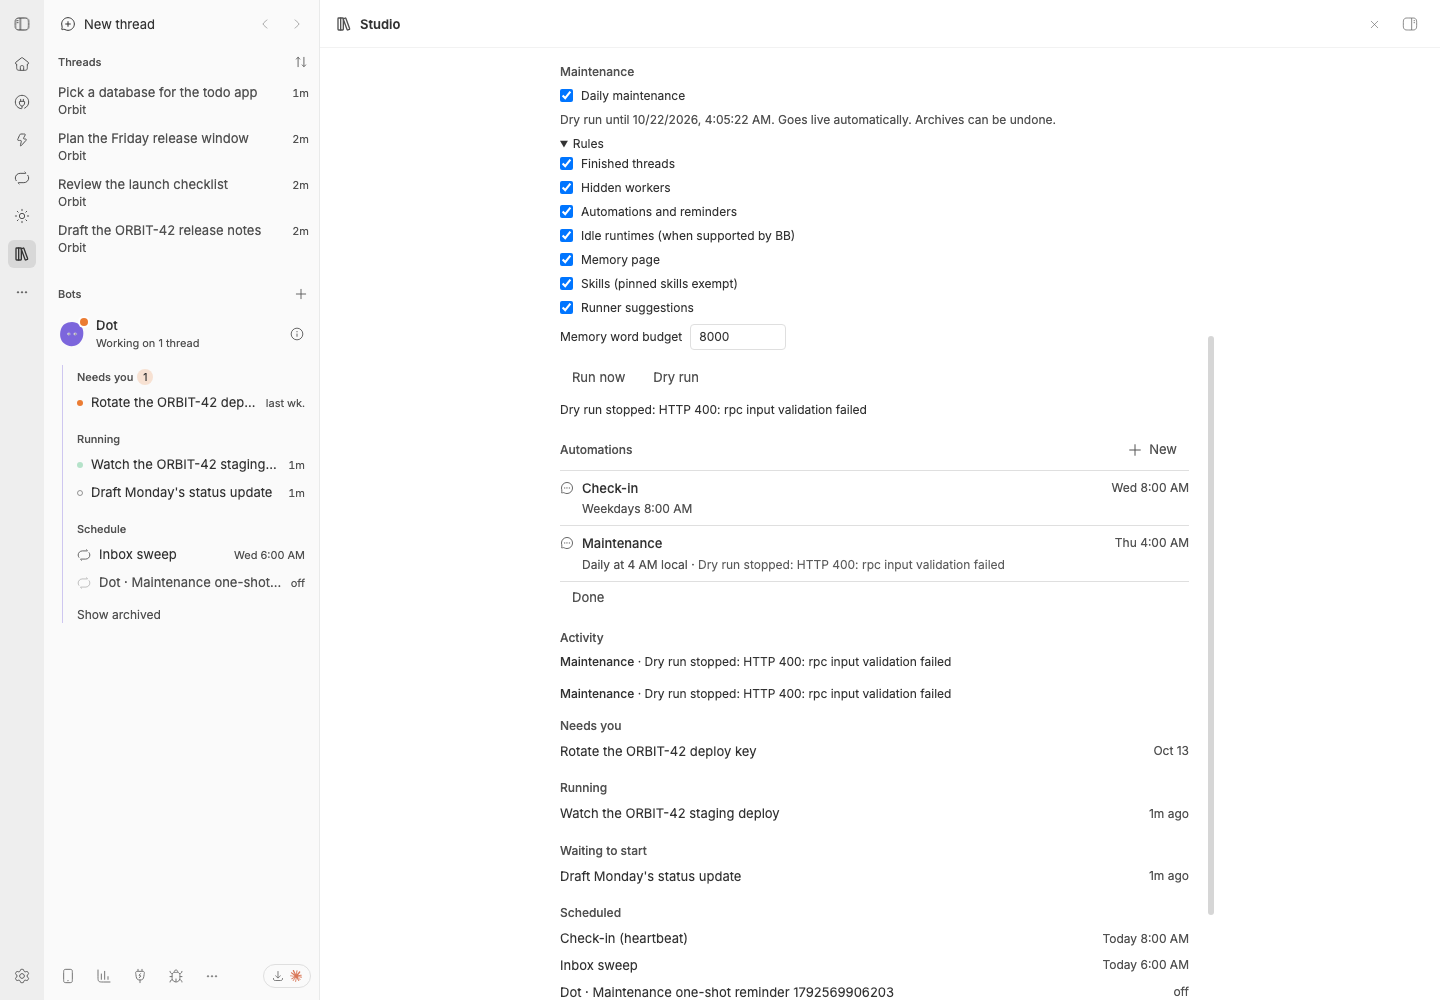
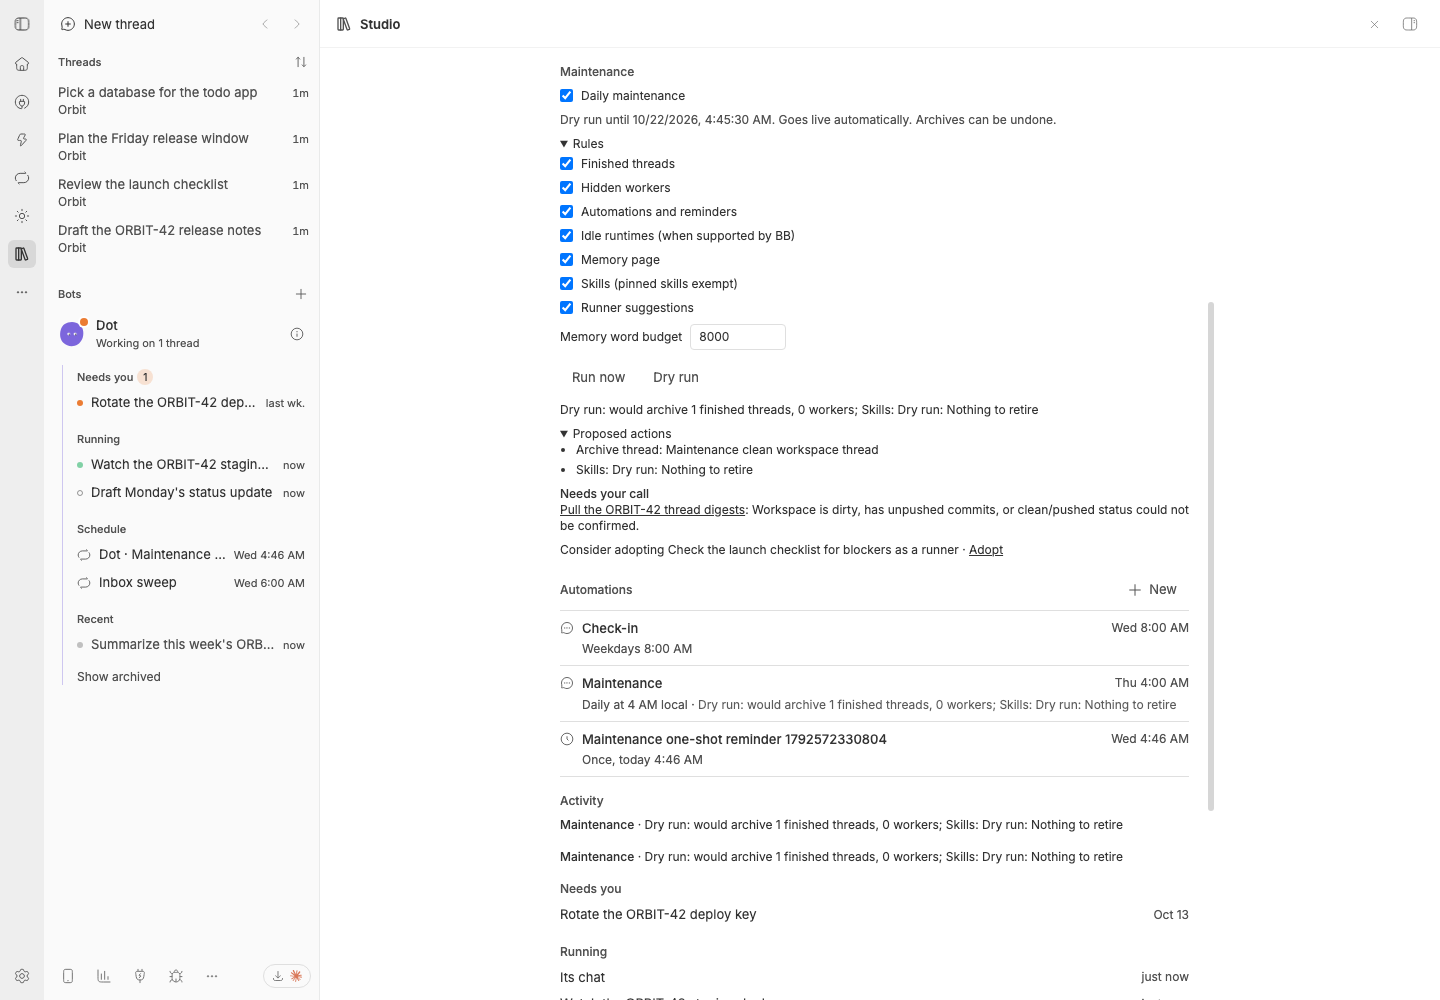
Verify staged Bot maintenance flow
Recaptures the real dry-run summary and asserts live maintenance outcomes.

diff --git a/packages/bb-studio/README.md b/packages/bb-studio/README.md
@@ -1256,25 +1256,15 @@ owned threads. Runners keep their existing group.
 The `studio-bot-maintenance` capture seeds old clean and dirty Bot threads, a
 pending question, an automation-targeted thread, and a completed one-shot
 reminder. It turns maintenance on, checks the initial one-day dry run, presses
-**Dry run**, then advances only the staged settings clock before **Run now**.
-It asserts no dry-run archives, then checks the live archive, **Needs your
-call**, reminder state, and Activity entry. The capture is strict and writes
-`assets/bot-maintenance.png` even when an assertion fails.
+**Dry run**, then advances only the staged settings clock before the same
+maintenance RPC used by **Run now**. After taking the screenshot, the capture
+leaves Bot info so its separate Automations list cannot reconcile the reminder
+before maintenance does. It asserts no dry-run archives, then checks the live
+archive, **Needs your call**, reminder state, and one Activity entry. The
+capture is strict and writes `assets/bot-maintenance.png` even when an
+assertion fails.
 
-The staged run against pushed commit `affe9098` failed before thread review:
-Automations rejected `{}` for `automations_overview` (it expects `null`) with
-`HTTP 400: rpc input validation failed`, so neither dry run produced a
-proposed-action summary or **Needs your call**, and no threads were archived.
-The Automations list reconciled the completed one-shot reminder to Done
-before the live maintenance action, so the test could not attribute that
-transition to maintenance. The
-screenshot records the stopped dry run; it is diagnostic evidence, not a
-passing result. The branch fixes the overview input contract and requests the
-workspace's remote merge-base ref,
-but the staged launcher installs the pushed commit, so those fixes need to
-reach `origin/main` before the maintenance capture can pass.
-
-![Staged Bot info → Maintenance on pushed affe9098: the one-day dry run stops on an Automations overview validation error before it can show proposed actions or Needs your call.](assets/bot-maintenance.png)
+![Staged Bot info → Maintenance: the one-day dry run proposes archiving the clean finished thread and places the dirty thread under Needs your call.](assets/bot-maintenance.png)
 
 
 ![The Bot's chat in a staged BB: BB's own thread page for Dot, with its first exchange, a finished-thread notice and its two-bullet answer on what's left before Friday's ORBIT-42 release; in BB's sidebar Studio's list: Threads on top (the Orbit project's threads as two-line rows, the sort and group menu beside the heading), then Bots with Dot tinted while its chat is open (Working on 1 thread, its ⓘ beside it) and the threads it started under Needs you, Running, Schedule (an Inbox sweep automation) and Recent, a follow-up nested under the thread that started it](assets/bot.png)
